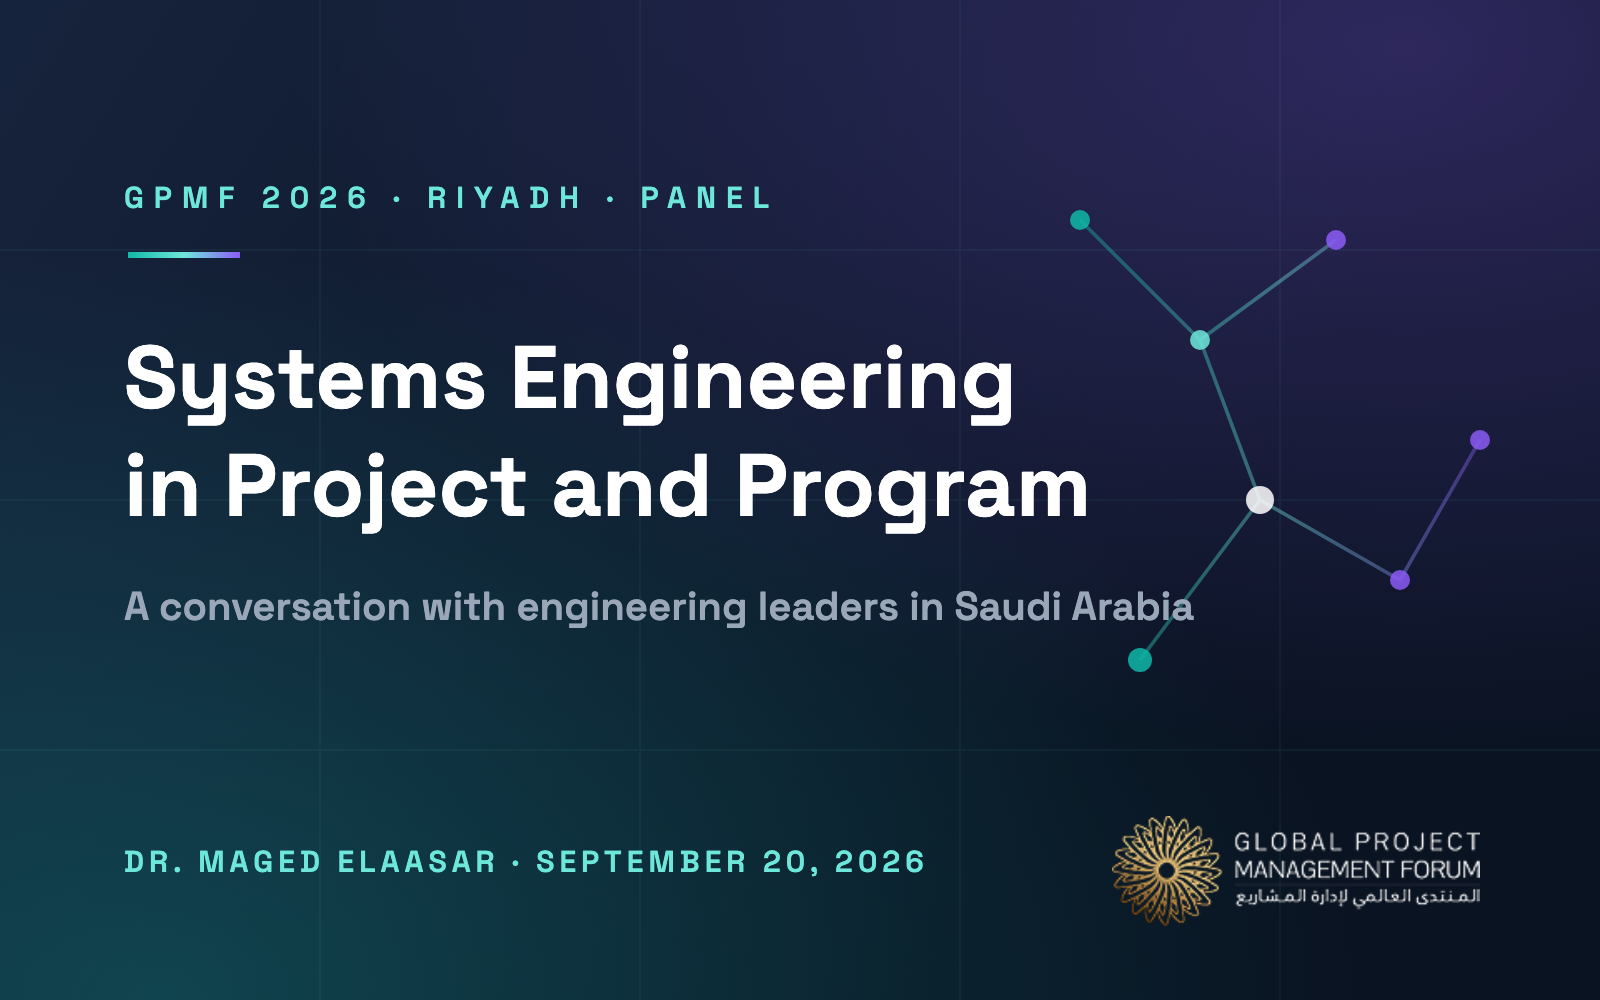
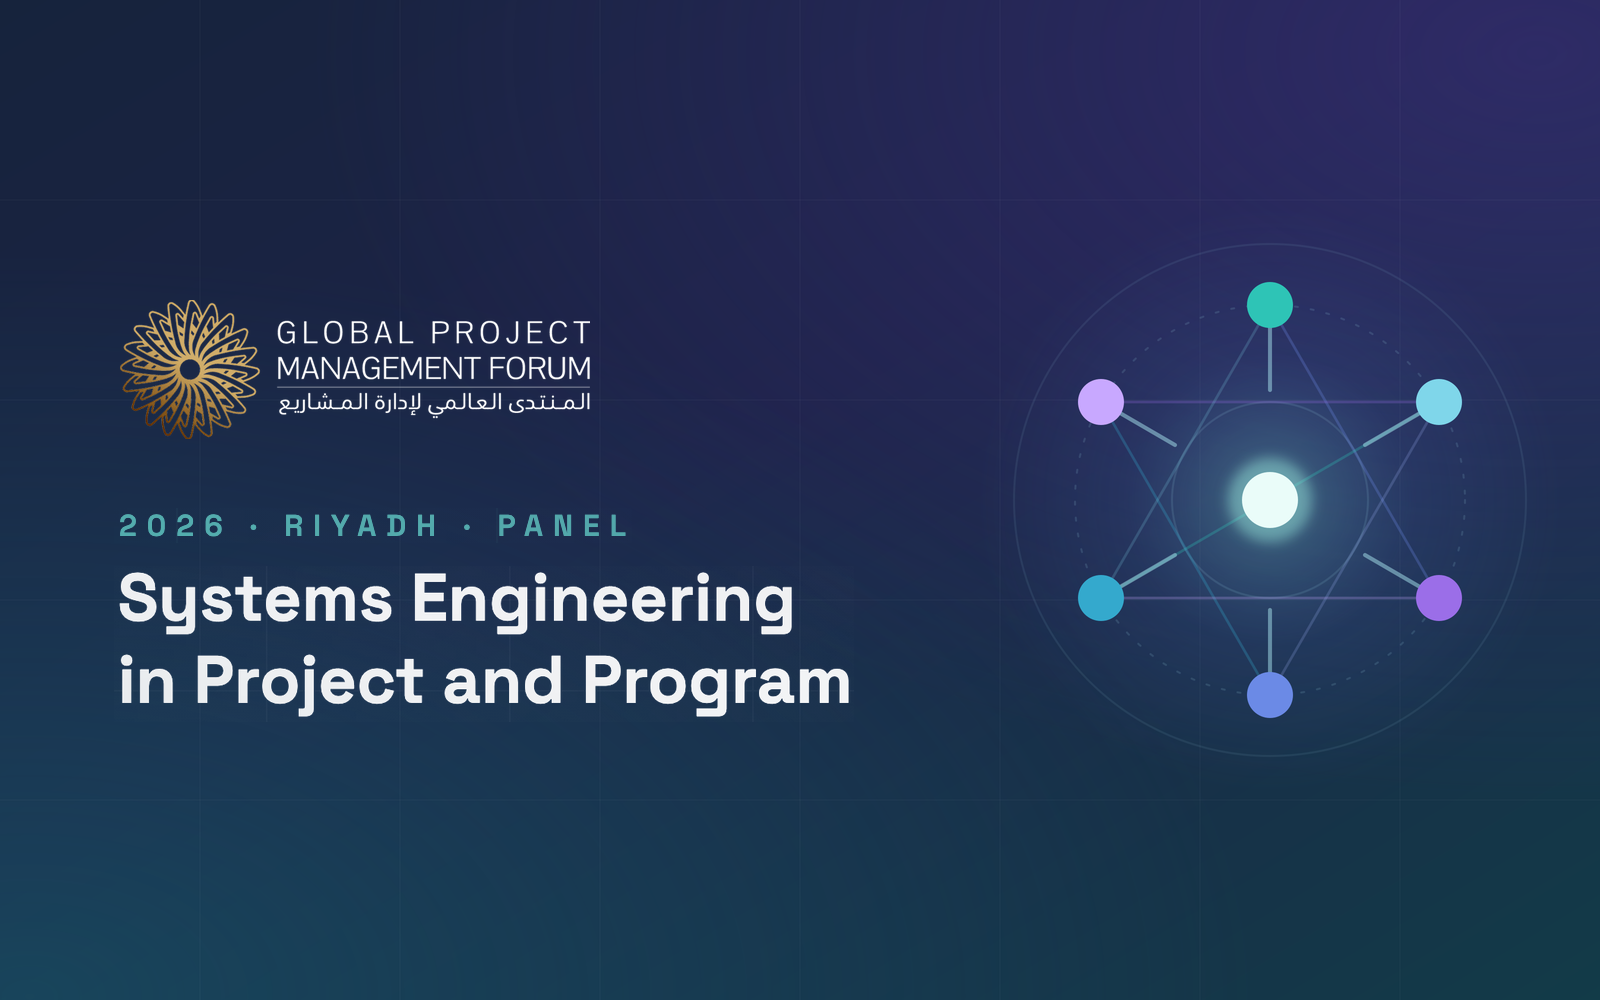
go

diff --git a/assets/scss/templates/_slider.scss b/assets/scss/templates/_slider.scss
@@ -369,10 +369,40 @@
       display: none;
     }
 
-    // Taller ratio box: the card is narrow here, so the title wraps to two
-    // lines and the copy needs more room than the desktop ratio allows.
+    // No ratio box at all here: the card is as tall as the art plus the copy.
+    // A ratio box this narrow left the figure nearly square, and `cover` then
+    // trimmed ~13% off each side of a 16:10 poster, cutting into its title and
+    // artwork. Giving the figure the posters' own ratio shows them whole, and
+    // the card height still only varies by the odd second title line.
     .hero-promo-card {
-      padding-bottom: 108%;
+      height: auto;
+      padding-bottom: 0;
+    }
+
+    .hero-promo,
+    .hero-promo-fallback {
+      position: relative;
+      inset: auto;
+      height: auto;
+    }
+
+    .hero-promo .slick-list,
+    .hero-promo .slick-track {
+      height: auto;
+    }
+
+    .hero-promo-slide {
+      height: auto;
+    }
+
+    .hero-promo-link {
+      position: relative;
+      inset: auto;
+    }
+
+    .hero-promo-figure {
+      flex: 0 0 auto;
+      aspect-ratio: 16 / 10;
     }
   }
 
@@ -418,6 +448,26 @@
     color: #fff;
     outline: none;
     transform: translateY(-50%) scale(1.06);
+  }
+
+  // Arrows move to the top corners of the art below 992px: the card is short
+  // there, and arrows on its centre line sat right across the poster title.
+  @include desktop {
+    .hero-promo-btn {
+      top: 12px;
+      transform: none;
+      width: 34px;
+      height: 34px;
+    }
+
+    .hero-promo-btn:hover,
+    .hero-promo-btn:focus {
+      transform: scale(1.06);
+    }
+
+    .hero-promo-btn i {
+      font-size: 14px;
+    }
   }
 
   // Dots sit inside the gradient, below the call to action.
